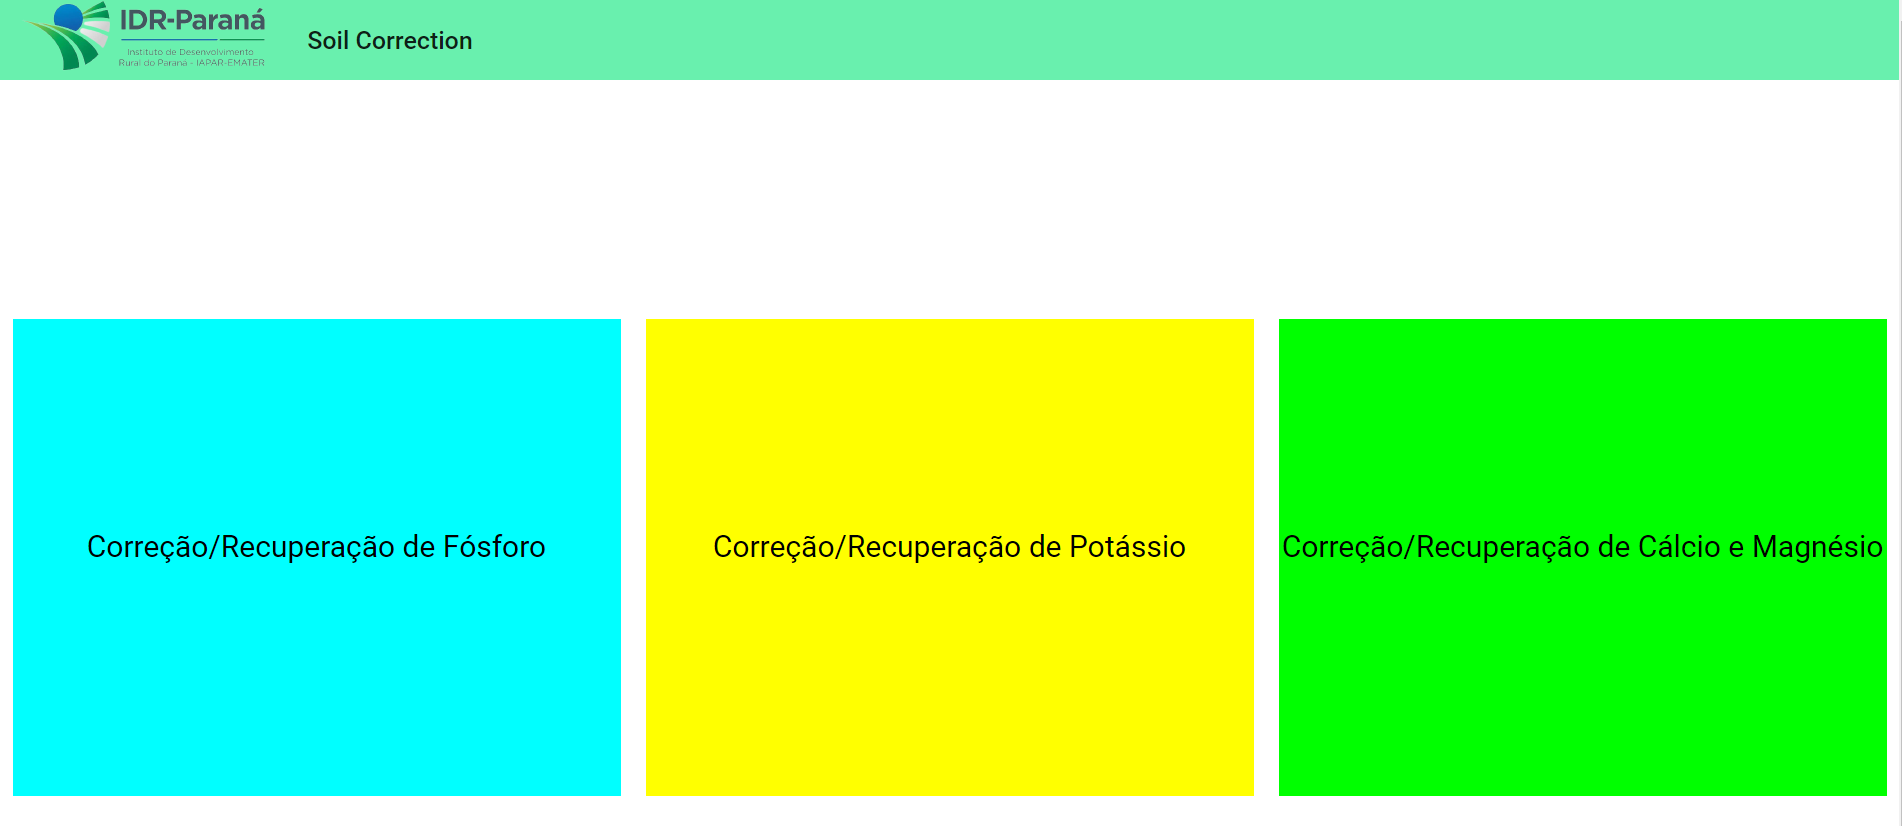
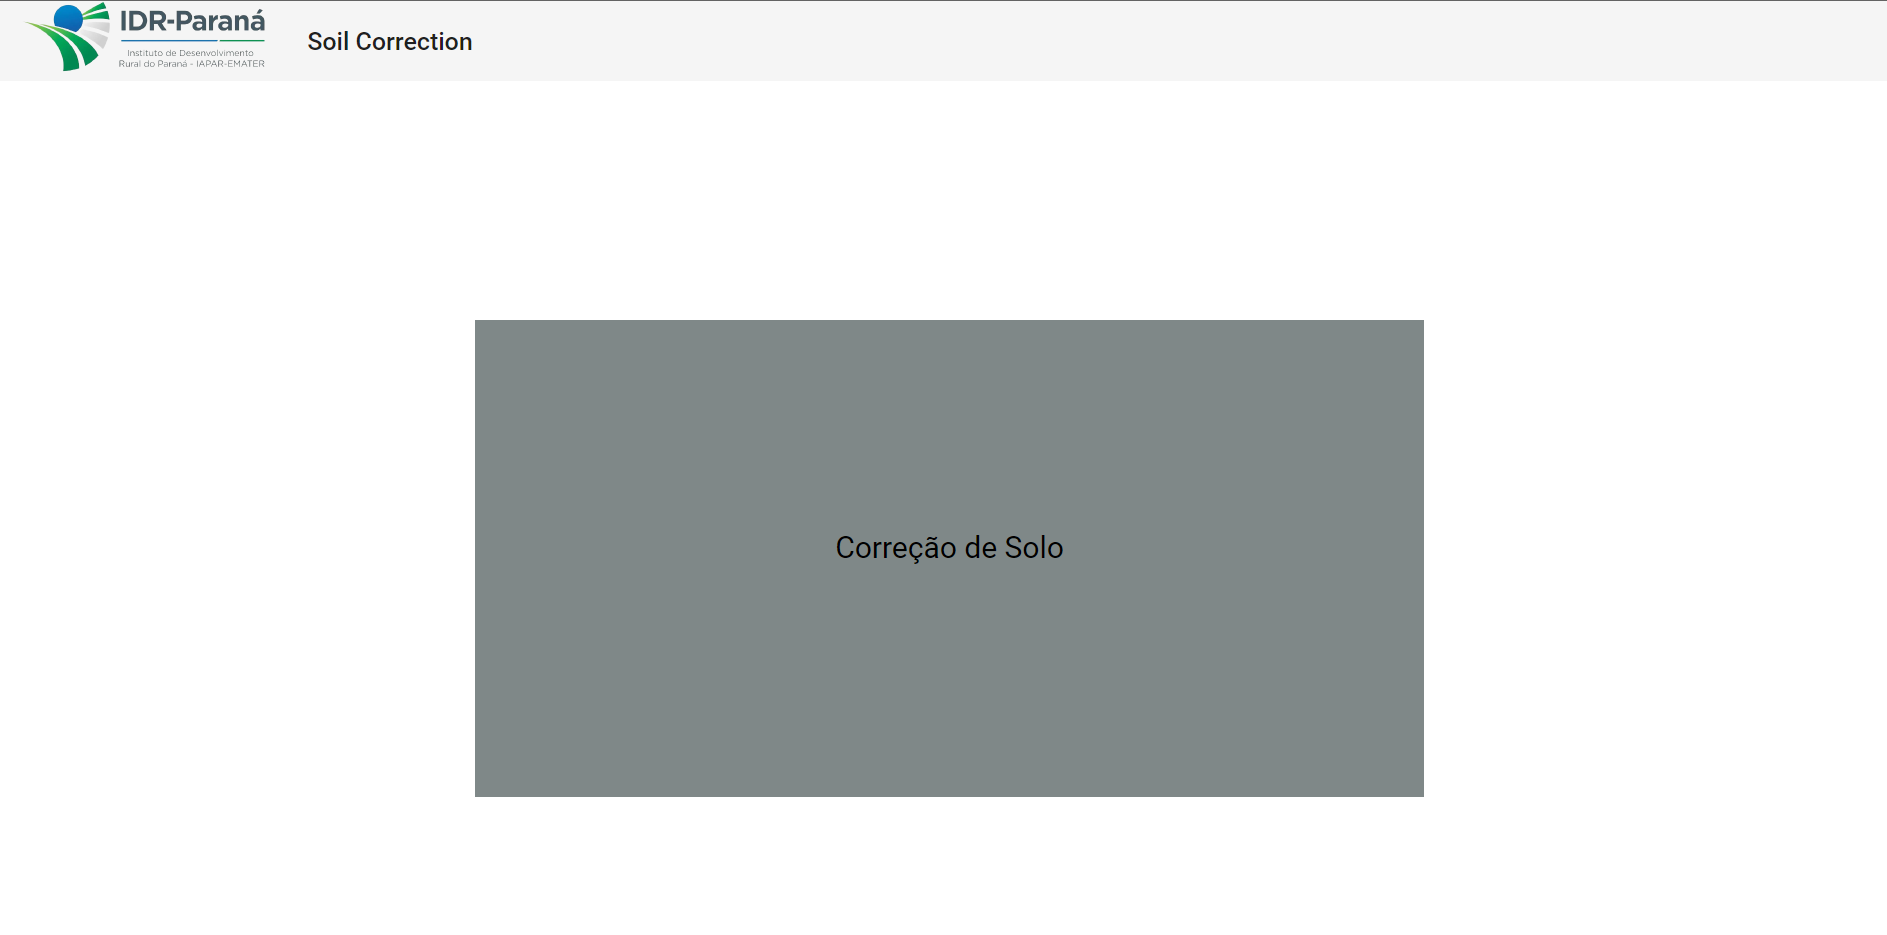
atualização README nova foto home esqueleto correcao

diff --git a/README.md b/README.md
@@ -13,7 +13,11 @@ Padrão do código mantido através do [Angular ESLint](https://github.com/angul
 
 ## Tela Principal
 ![Home](pics/home.PNG)
-No momento a tela principal possui uma barra no topo com um logo do IDR-PR e o nome do projeto. Possuí também um esboço das  possíveis telas disponíveis.
+No momento a tela principal possui uma barra no topo com um logo do IDR-PR e o nome do projeto. Possuí também navegação para a função de correção de solo.
+
+## Correção de Solo
+![Home](pics/correcao.PNG)
+No momento a tela de correcao de solo possui o esqueleto do form.
 
 
 ## Iniciar Projeto
